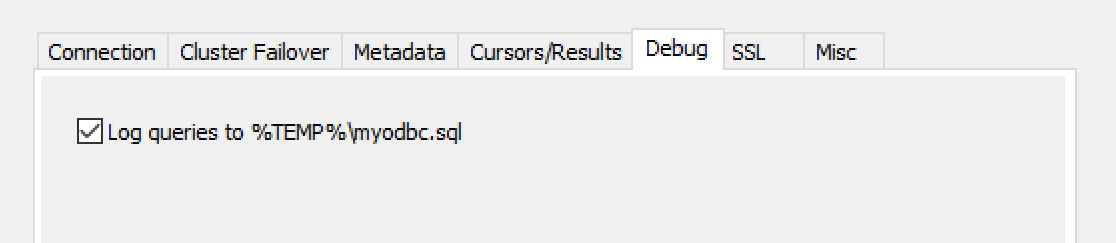
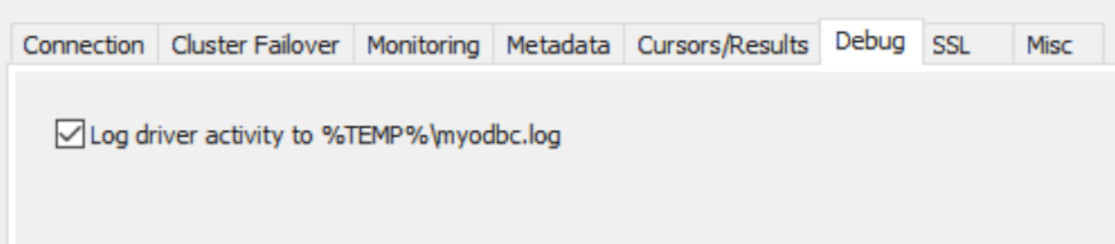
Update wording for logging in the UI.

Changed region(s): [[0.0, 0.1152, 0.9758, 0.2881], [0.0305, 0.4609, 0.5184, 0.6337], [0.9148, 0.144, 0.9758, 0.2305]]

diff --git a/setupgui/gtk/ui_xml_v2.h b/setupgui/gtk/ui_xml_v2.h
@@ -1332,7 +1332,7 @@ static char *ui_xml ="<?xml version=\"1.0\" encoding=\"UTF-8\"?>\n" \
                     "<property name=\"border_width\">8</property>\n" \
                     "<child>\n" \
                       "<object class=\"GtkCheckButton\" id=\"save_queries\">\n" \
-                        "<property name=\"label\" translatable=\"yes\">Log queries to /tmp/myodbc.sql</property>\n" \
+                        "<property name=\"label\" translatable=\"yes\">Log driver activity to /tmp/myodbc.log</property>\n" \
                         "<property name=\"use_action_appearance\">False</property>\n" \
                         "<property name=\"visible\">True</property>\n" \
                         "<property name=\"can_focus\">True</property>\n" \
@@ -3302,7 +3302,7 @@ static char *ui_xml ="<?xml version=\"1.0\" encoding=\"UTF-8\"?>\n" \
                     "<property name=\"border_width\">8</property>\n" \
                     "<child>\n" \
                       "<object class=\"GtkCheckButton\" id=\"save_queries\">\n" \
-                        "<property name=\"label\" translatable=\"yes\">Log queries to /tmp/myodbc.sql</property>\n" \
+                        "<property name=\"label\" translatable=\"yes\">Log driver activity to /tmp/myodbc.log</property>\n" \
                         "<property name=\"use_action_appearance\">False</property>\n" \
                         "<property name=\"visible\">True</property>\n" \
                         "<property name=\"can_focus\">True</property>\n" \

diff --git a/setupgui/gtk/ui_xml.h b/setupgui/gtk/ui_xml.h
@@ -1335,7 +1335,7 @@ static char *ui_xml = "<?xml version=\"1.0\" encoding=\"UTF-8\"?>" \
                     "<property name=\"border_width\">8</property>\n" \
                     "<child>\n" \
                       "<object class=\"GtkCheckButton\" id=\"save_queries\">\n" \
-                        "<property name=\"label\" translatable=\"yes\">Log queries to /tmp/myodbc.sql</property>\n" \
+                        "<property name=\"label\" translatable=\"yes\">Log driver activity to /tmp/myodbc.log</property>\n" \
                         "<property name=\"use_action_appearance\">False</property>\n" \
                         "<property name=\"visible\">True</property>\n" \
                         "<property name=\"can_focus\">True</property>\n" \
@@ -3305,7 +3305,7 @@ static char *ui_xml = "<?xml version=\"1.0\" encoding=\"UTF-8\"?>" \
                     "<property name=\"border_width\">8</property>\n" \
                     "<child>\n" \
                       "<object class=\"GtkCheckButton\" id=\"save_queries\">\n" \
-                        "<property name=\"label\" translatable=\"yes\">Log queries to /tmp/myodbc.sql</property>\n" \
+                        "<property name=\"label\" translatable=\"yes\">Log driver activity to /tmp/myodbc.log</property>\n" \
                         "<property name=\"use_action_appearance\">False</property>\n" \
                         "<property name=\"visible\">True</property>\n" \
                         "<property name=\"can_focus\">True</property>\n" \

diff --git a/setupgui/gtk/ODBCINSTGetProperties.cc b/setupgui/gtk/ODBCINSTGetProperties.cc
@@ -46,7 +46,7 @@ static const char *MYODBC_OPTIONS[][3] = {
   {"SOCKET",            "T", "The Unix socket file if SERVER=localhost"},
   {"INITSTMT",          "T", "Initial statement executed at the connecting time"},
   {"CHARSET",           "T", "The character set to use for the connection"},
-  {"PREFETCH",          "T", "Prefecth from server by N rows at a time"},
+  {"PREFETCH",          "T", "Prefetch from server by N rows at a time"},
   {"READTIMEOUT",       "T", "The timeout in seconds for attempts to read from the server"},
   {"WRITETIMEOUT",      "T", "The timeout in seconds for attempts to write to the server"},
   {"SSLCA",             "F", "The path to a file with a list of trust SSL CAs"},
@@ -71,7 +71,7 @@ static const char *MYODBC_OPTIONS[][3] = {
   {"USE_MYCNF",         "C", "Read options from my.cnf"},
   {"SAFE",              "C", "Add some extra safety checks"},
   {"NO_TRANSACTIONS",   "C", "Disable transaction support"},
-  {"LOG_QUERY",         "C", "Log queries to %TEMP%\myodbc.sql"},
+  {"LOG_QUERY",         "C", "Log driver activity to %TEMP%\myodbc.log"},
   {"NO_CACHE",          "C", "Don't cache results of forward-only cursors"},
   {"FORWARD_CURSOR",    "C", "Force use of forward-only cursors"},
   {"AUTO_RECONNECT",    "C", "Enable automatic reconnect"},

diff --git a/driver/driver.h b/driver/driver.h
@@ -117,15 +117,15 @@
 
 #if defined(__APPLE__)
 
-#define DRIVER_LOG_FILE "/tmp/myodbc.sql"
+#define DRIVER_LOG_FILE "/tmp/myodbc.log"
 
 #elif defined(__UNIX__)
 
-#define DRIVER_LOG_FILE "/tmp/myodbc.sql"
+#define DRIVER_LOG_FILE "/tmp/myodbc.log"
 
 #else
 
-#define DRIVER_LOG_FILE "myodbc.sql"
+#define DRIVER_LOG_FILE "myodbc.log"
 
 #endif
 

diff --git a/docs/using-the-aws-driver/UsingTheAwsDriver.md b/docs/using-the-aws-driver/UsingTheAwsDriver.md
@@ -290,10 +290,10 @@ When connecting the AWS ODBC Driver for MySQL using a Windows system, ensure log
 #### Example
 ![enable-logging-windows](./enable-logging-windows.jpg)
 
-The resulting log file, named `myodbc.sql`, can be found under `%temp%`.
+The resulting log file, named `myodbc.log`, can be found under `%temp%`.
 
 ### Enabling Logs On MacOS and Linux
-When connecting the AWS ODBC Driver for MySQL using a MacOS or Linux system, include the `LOG_QUERY` parameter in the connection string to enable logging (`DSN=XXX;LOG_QUERY=1;...`). The log file, named `myodbc.sql`, can be found in the current working directory.
+When connecting the AWS ODBC Driver for MySQL using a MacOS or Linux system, include the `LOG_QUERY` parameter in the connection string to enable logging (`DSN=XXX;LOG_QUERY=1;...`). The log file, named `myodbc.log`, can be found in the current working directory.
 
 >## :warning: Warnings About Proper Usage of the AWS ODBC Driver for MySQL
 >It is highly recommended that you use the cluster and read-only cluster endpoints instead of the direct instance endpoints of your Aurora cluster, unless you are confident about your application's use of instance endpoints. Although the driver will correctly failover to the new writer instance when using instance endpoints, use of these endpoints is discouraged because individual instances can spontaneously change reader/writer status when failover occurs. The driver will always connect directly to the instance specified if an instance endpoint is provided, so a write-safe connection cannot be assumed if the application uses instance endpoints.

diff --git a/docs/testing-the-aws-driver/TestingTheAwsDriver.md b/docs/testing-the-aws-driver/TestingTheAwsDriver.md
@@ -124,4 +124,4 @@ There are two types of integration tests you can run. One type is an integration
     cmake --build build --config Release
    ```
 5. Navigate to the `testframework` directory and run the command: `./gradlew --no-parallel --no-daemon test-failover --info`.
-6. Log files are written to the `build` directory as `myodbc.sql`.
+6. Log files are written to the `build` directory as `myodbc.log`.
